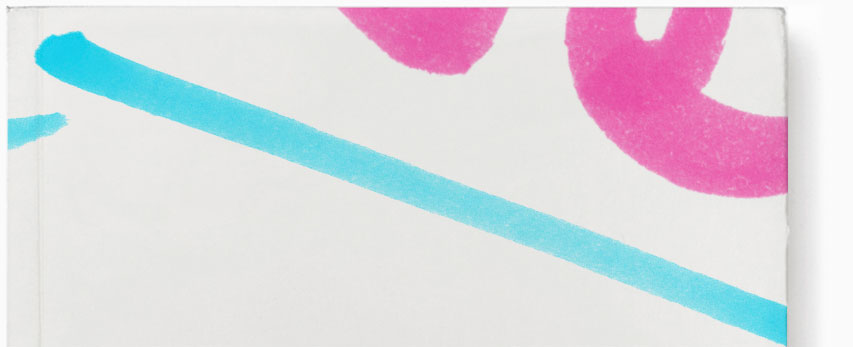
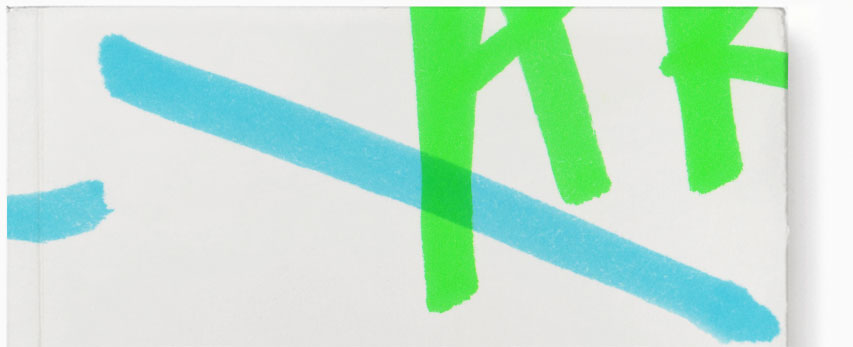
Background image for each master class is working now

diff --git a/css/masterclass.css b/css/masterclass.css
@@ -71,7 +71,6 @@ body.masterclasses {
     margin-right: -50px;
     padding-left: 78px; }
   .masterclasses #main-content .masterclass-header-wrapper {
-    background-image: url("../images/masterclasses-top.jpg");
     background-repeat: no-repeat;
     padding-top: 40px;
     min-height: 307px; }
@@ -283,23 +282,3 @@ body.masterclasses {
   .masterclasses.views-view-landing_pages .view-content .views-row.col-2 {
     min-height: 0px; } }
 /* Smartphones (portrait) ----------- */
-@media screen and (max-width: 321px) {
-  	/*
-    .masterclasses.views-view-landing_pages {
-      #main-content {
-  			.view-header {
-        	height: auto;
-      	}
-  
-        .view-content {
-  				margin-left: -58px;
-  				padding-left: 78px;
-  				margin-top: 40px;
-  
-        	img {
-  					display: none;
-  				} 
-        }
-      }
-    }
-  	*/ }

diff --git a/scss/masterclass.scss b/scss/masterclass.scss
@@ -113,7 +113,7 @@ body.masterclasses {
     }
 
     .masterclass-header-wrapper {
-      background-image: url('../images/masterclasses-top.jpg');
+      //background-image: url('../images/masterclasses-top-page.jpg');
       background-repeat: no-repeat;
       padding-top: 40px;
       min-height: 307px;

diff --git a/template.php b/template.php
@@ -39,6 +39,7 @@ function masterclass_preprocess_page(&$variables) {
 
     if (!empty($variables['node']->field_mc_background)) {
       $url = file_create_url($variables['node']->field_mc_background[LANGUAGE_NONE][0]['uri']);
+
       drupal_add_css(".masterclasses #main-content .masterclass-header-wrapper { background-image: url({$url}); }", 'inline');
     }
   }
